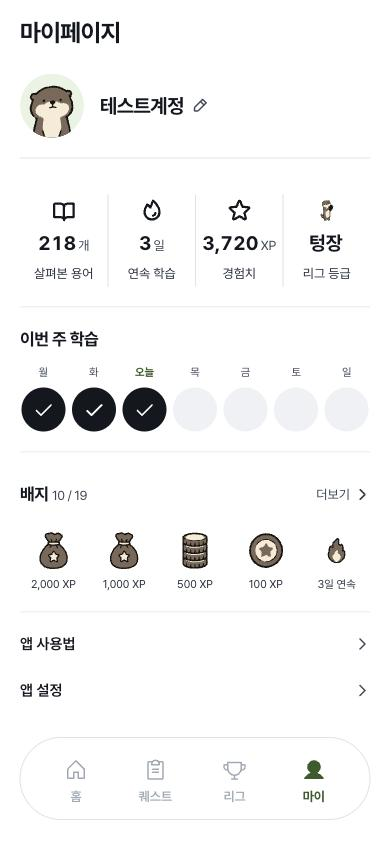
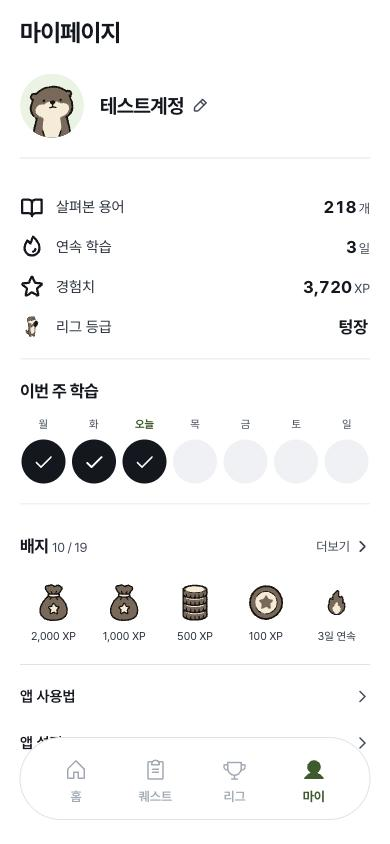
마이 통계를 4칸 가로에서 한 줄씩 목록(아이콘·이름·값)으로

diff --git a/src/index.css b/src/index.css
@@ -380,11 +380,12 @@ svg:is(.text-brand-300, .text-brand-400, .text-brand-500, .text-brand-600, .text
   position: relative;
   z-index: 1;
 }
-.my-page-stats-grid { display: grid; grid-template-columns: repeat(4, minmax(0, 1fr)); gap: 0; }
-.my-page-stat { display: flex; min-width: 0; flex-direction: column; align-items: center; text-align: center; gap: var(--space-2); padding: var(--space-1) 2px; }
-.my-page-stat.is-wide { grid-column: 1 / -1; }
-.my-page-stat-label { display: flex; order: 2; min-height: 18px; align-items: center; gap: 2px; color: var(--color-ink-2); font-size: var(--font-size-label); white-space: nowrap; }
-.my-page-stat-value { display: flex; flex-wrap: wrap; align-items: baseline; justify-content: center; gap: 2px; color: var(--color-ink); font-size: clamp(var(--font-size-headline), 5vw, var(--font-size-stat)); font-weight: var(--font-weight-bold); line-height: var(--line-height-tight); font-variant-numeric: tabular-nums; }
+/* 마이 통계: 한 줄에 하나씩(아이콘 · 이름 ··· 값). 긴 값도 오른쪽에 그대로 둔다 */
+.my-page-stats-grid { display: flex; flex-direction: column; gap: var(--space-4); }
+.my-page-stat { display: flex; min-width: 0; align-items: center; gap: var(--space-3); }
+.my-page-stat.is-wide { grid-column: auto; }
+.my-page-stat-label { display: flex; flex: 1; min-width: 0; align-items: center; color: var(--color-ink-2); font-size: var(--font-size-body); white-space: nowrap; }
+.my-page-stat-value { display: flex; align-items: baseline; justify-content: flex-end; gap: 2px; color: var(--color-ink); font-size: var(--font-size-headline); font-weight: var(--font-weight-bold); line-height: var(--line-height-tight); font-variant-numeric: tabular-nums; }
 .my-page-stat-value [data-stat-number] { white-space: nowrap; overflow-wrap: normal; word-break: normal; }
 .my-page-stat-unit { color: var(--color-ink-3); font-size: var(--font-size-label); font-weight: var(--font-weight-regular); }
 button.my-page-shop-entry { min-height: var(--size-touch-min); border-radius: var(--shape-sm); cursor: pointer; }
@@ -1049,7 +1050,6 @@ button.quiz-option:disabled { opacity: 1; cursor: default; }
 button.home-review-entry { margin-bottom: var(--space-3); padding: var(--space-4); border-radius: var(--shape-card); background: var(--color-card); box-shadow: var(--shadow-card); }
 .home-status-card { margin-bottom: var(--space-6); padding: var(--space-5) var(--space-5) 0; border-radius: var(--shape-card); background: var(--color-card); box-shadow: var(--shadow-card); }
 .my-page-stats.app-card { padding: var(--space-5) 0; }
-.my-page-stat + .my-page-stat { border-left: 1px solid var(--color-line); }
 .my-profile-avatar { display: flex; flex-shrink: 0; border-radius: 50%; }
 /* 프로필 그림 고르기: 3열, 고른 것은 메인 컬러 테두리 */
 .profile-avatar-options { display: grid; grid-template-columns: repeat(3, minmax(0, 1fr)); gap: var(--space-4) var(--space-2); list-style: none; }

diff --git a/DESIGN.md b/DESIGN.md
@@ -240,7 +240,7 @@
 
 ### 마이 (`/my`)
 
-- 프로필(누르면 그림 선택, 닉네임) 아래 4칸 통계(살펴본 용어, 연속 학습, 경험치, 리그 등급 그림+이름), 그다음 "이번 주 학습" 칸(홈에서 옮김, 연속 일수는 통계에만). 섹션(프로필·통계·이번 주 학습·배지·메뉴)은 1px 구분선과 같은 위아래 여백으로 나눈다. 승급 조건은 리그 안내 시트에만.
+- 프로필(누르면 그림 선택, 닉네임) 아래 통계 4줄(아이콘 · 이름 ··· 값: 살펴본 용어, 연속 학습, 경험치, 리그 등급 그림+이름), 그다음 "이번 주 학습" 칸(홈에서 옮김, 연속 일수는 통계에만). 섹션(프로필·통계·이번 주 학습·배지·메뉴)은 1px 구분선과 같은 위아래 여백으로 나눈다. 승급 조건은 리그 안내 시트에만.
 - 배지는 받은 것(높은 단계부터) → 가까운 목표 순으로 한 줄 5개만, 제목 옆 "획득/전체", 오른쪽 "더보기"는 `/my/badges`(익힌 용어·연속 학습·경험치 묶음, 못 받은 배지는 지금 값/목표). 그다음 메뉴(앱 사용법, 앱 설정) 목록.
 
 ---
